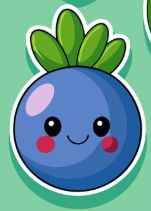
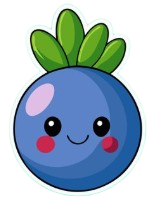
Remove photo background

diff --git a/screens/game_screen.py b/screens/game_screen.py
@@ -2,232 +2,184 @@ from kivy.uix.screenmanager import Screen
 from kivy.lang import Builder
 from kivy.properties import StringProperty, ListProperty
 from kivy.uix.button import Button
+from kivy.uix.floatlayout import FloatLayout
+from kivy.uix.gridlayout import GridLayout
 from kivy.uix.image import Image
+from kivy.graphics import Color, RoundedRectangle, Rectangle
 import random
 from kivy.core.audio import SoundLoader
-from kivy.clock import Clock 
+from kivy.clock import Clock
 
-# โหลดไฟล์หน้าตา UI
-Builder.load_file('ui.kv')
+# --- 1. สร้างคลาสปุ่ม "ไพ่ผลไม้" (TileButton) ---
+# อันนี้แหละที่จะทำให้มีกรอบขาวๆ สวยๆ
+class TileButton(Button):
+    def __init__(self, fruit_source, **kwargs):
+        super().__init__(**kwargs)
+        self.background_normal = ''  # ลบพื้นหลังสีเทาเดิมของปุ่ม
+        self.background_color = (0, 0, 0, 0) # ทำให้ปุ่มใส
+        self.fruit_source = fruit_source
+        
+        # วาดกราฟิกเอง
+        with self.canvas.before:
+            # A. เงา (สีดำจางๆ)
+            Color(0, 0, 0, 0.2)
+            self.shadow = RoundedRectangle(pos=(self.x+3, self.y-3), size=self.size, radius=[15])
+            
+            # B. กรอบการ์ดสีขาว (หรือสีครีม)
+            Color(0.95, 0.95, 0.9, 1) 
+            self.card_bg = RoundedRectangle(pos=self.pos, size=self.size, radius=[15])
+            
+        with self.canvas.after:
+            # C. รูปผลไม้ (วาดทับลงไป)
+            Color(1, 1, 1, 1)
+            pad = 10 # ระยะห่างจากขอบ
+            self.fruit_rect = Rectangle(source=self.fruit_source, 
+                                      pos=(self.x+pad, self.y+pad), 
+                                      size=(self.width-pad*2, self.height-pad*2))
 
+        # สั่งให้มันขยับตามถ้าหน้าจอเปลี่ยนขนาด
+        self.bind(pos=self.update_graphics, size=self.update_graphics)
+
+    def update_graphics(self, *args):
+        # อัปเดตตำแหน่งเงา
+        self.shadow.pos = (self.x+3, self.y-3)
+        self.shadow.size = self.size
+        # อัปเดตตำแหน่งการ์ด
+        self.card_bg.pos = self.pos
+        self.card_bg.size = self.size
+        # อัปเดตตำแหน่งผลไม้
+        pad = 10
+        self.fruit_rect.pos = (self.x+pad, self.y+pad)
+        self.fruit_rect.size = (self.width-pad*2, self.height-pad*2)
+
+
+# --- 2. หน้าจอเกมหลัก ---
 class GameScreen(Screen):
     # Properties สำหรับ bind กับ UI
-    slot_display = StringProperty("ช่องว่าง: 7/7")
-    slot_fruits = ListProperty([])
-    time_display = StringProperty("เวลา: 60")
+    slot_display = StringProperty("Slots: 0/7") # แก้เป็นภาษาอังกฤษก่อนกันสี่เหลี่ยม
+    time_display = StringProperty("Time: 60")
     
     def __init__(self, **kwargs):
         super(GameScreen, self).__init__(**kwargs)
-
         self.fruit_types = ['f1', 'f2', 'f3', 'f4', 'f5', 'f6', 'f7', 'f8', 'f9', 'f10']
-        
-        # กองเก็บไพ่ (สูงสุด 7 ใบ)
         self.MAX_SLOTS = 7
-        self.slots = []  # เก็บไพ่ที่ถูกคลิก
-        
-        # ข้อมูลไพ่ทั้งหมดในเกม
+        self.slots = []
         self.tiles = []
-        
-        # คะแนน
         self.score = 0
         self.game_over_flag = False
         self.time_left = 60
-    
-    def update_time(self, dt):
-        """ฟังก์ชันนับถอยหลัง (เรียกโดย Clock ทุก 1 วินาที)"""
-        # ถ้าเกมจบแล้ว ไม่ต้องนับต่อ
-        if self.game_over_flag:
-            return
-
-        # ลดเวลาลง 1 วินาที
-        self.time_left -= 1
         
-        # อัปเดตตัวเลขบนหน้าจอ (ส่งค่าไปที่ ui.kv)
-        self.time_display = f"เวลา: {self.time_left}"
+        # --- สร้าง UI ในโค้ดเลย (จะได้ไม่ต้องแก้ ui.kv ไปมา) ---
+        self.layout = FloatLayout()
+        
+        # 1. พื้นหลัง (Background)
+        self.bg = Image(source='assets/images/bg.png', allow_stretch=True, keep_ratio=False)
+        self.layout.add_widget(self.bg)
+        
+        # 2. กระดานเกม (Game Board)
+        # ปรับ size_hint เพื่อให้ตารางไม่เต็มจอเกินไป มีที่ว่างสวยๆ
+        self.game_board = GridLayout(cols=7, spacing=10, padding=20,
+                                     size_hint=(0.9, 0.6), 
+                                     pos_hint={'center_x': 0.5, 'center_y': 0.6})
+        self.layout.add_widget(self.game_board)
+        
+        # 3. แถบข้างล่าง (Slot Bar)
+        # วาดพื้นหลังแถบสีเทาเข้ม
+        with self.layout.canvas.after:
+            Color(0.2, 0.2, 0.2, 0.9)
+            RoundedRectangle(pos=(50, 20), size=(700, 100), radius=[20])
 
-        # 🔍 จุดสำคัญ: เช็คว่าเวลาหมดหรือยัง?
-        if self.time_left <= 0:
-            self.time_left = 0
-            self.time_display = "หมดเวลา!"
-            print("⏳ หมดเวลาแล้ว! Game Over!")
-            
-            # 💀 สั่งให้แพ้ทันที! (บรรทัดนี้ต้องมี!)
-            self.game_over(is_win=False)
-    
+        self.add_widget(self.layout)
+
     def on_enter(self):
         """เริ่มเกมใหม่"""
         self.score = 0
         self.game_over_flag = False
-        
-        # ตั้งเวลาเริ่มต้น 60 วินาที
         self.time_left = 60
-        self.time_display = f"เวลา: {self.time_left}"
-        
+        self.time_display = f"Time: {self.time_left}"
         self.generate_tiles()
-        
-        # ⏱ เริ่มจับเวลา (เรียก update_time ทุก 1 วินาที)
-        # อย่าลืม import Clock ด้านบนสุดนะครับ
         self.timer_event = Clock.schedule_interval(self.update_time, 1)
-    
-    def on_leave(self):
-        """หยุดจับเวลาเมื่อออกจากหน้านี้"""
-        if hasattr(self, 'timer_event'):
-            self.timer_event.cancel()
-    
+
     def generate_tiles(self):
-        """สุ่มและสร้างไพ่บนกระดาน"""
-        # ล้างไพ่เก่าออก
-        game_board = self.ids.game_board
-        game_board.clear_widgets()
+        """สุ่มและสร้างไพ่"""
+        self.game_board.clear_widgets()
         self.tiles = []
         self.slots = []
-        self.update_slot_display()
         
-        # สุ่มไพ่ - สร้าง 21 ใบ (7 ชนิด x 3 ใบ)
+        # สุ่มไพ่ 21 ใบ
         tile_list = []
-        for i in range(7):  # เลือก 7 ชนิดจาก 10 ชนิด
+        for i in range(7):
             fruit = self.fruit_types[i]
-            for _ in range(3):  # ชนิดละ 3 ใบ
+            for _ in range(3):
                 tile_list.append(fruit)
-        
-        # สุ่มลำดับไพ่
         random.shuffle(tile_list)
         
-        # สร้าง widget ไพ่
-        for i, fruit in enumerate(tile_list):
-            # สร้างปุ่มที่มีรูปภาพ
-            tile_btn = Button(
+        # สร้างปุ่มแบบใหม่ (TileButton)
+        for fruit in tile_list:
+            # ใช้ TileButton ที่เราสร้างไว้ข้างบน!
+            tile_btn = TileButton(
+                fruit_source=f'assets/images/picgame/{fruit}.png',
                 size_hint=(None, None),
-                size=(80, 80),
-                background_normal=f'assets/images/picgame/{fruit}.png',
-                background_down=f'assets/images/picgame/{fruit}.png'
+                size=(80, 80) # ขนาดการ์ด
             )
-            
-            # คำนวณตำแหน่ง (วางแบบ grid และเลื่อนให้ดูซ้อนกัน)
-            row = i // 7
-            col = i % 7
-            x = 50 + col * 90  # เว้นระยะ 90
-            y = 400 - row * 60  # ซ้อนกันในแนวตั้ง เว้นระยะ 60
-            
-            tile_btn.pos = (x, y)
             
             # ผูกฟังก์ชันคลิก
             tile_btn.bind(on_press=lambda btn, f=fruit: self.on_tile_click_new(btn, f))
+            self.game_board.add_widget(tile_btn)
             
-            # เพิ่มเข้า board
-            game_board.add_widget(tile_btn)
-            
-            # เก็บข้อมูล
-            self.tiles.append({
-                'fruit': fruit,
-                'widget': tile_btn,
-                'visible': True
-            })
+            self.tiles.append({'fruit': fruit, 'widget': tile_btn})
         
-        print(f"🎮 สร้างไพ่ {len(tile_list)} ใบเสร็จแล้ว!")
-    
-    def update_slot_display(self):
-        """อัพเดทข้อความแสดงจำนวนช่อง"""
-        remaining = self.MAX_SLOTS - len(self.slots)
-        self.slot_display = f"ช่องว่าง: {remaining}/{self.MAX_SLOTS}"
-        self.slot_fruits = self.slots.copy()
-    
-    def add_to_slots(self, fruit_name):
-        """เพิ่มไพ่เข้ากองเก็บ"""
-        # เช็คว่ากองเต็มหรือยัง
-        if len(self.slots) >= self.MAX_SLOTS:
-            print("กองเต็มแล้ว! แพ้!")
+        print(f"🎮 สร้างไพ่ {len(tile_list)} ใบแบบการ์ดสวยๆ เสร็จแล้ว!")
+
+    def update_time(self, dt):
+        if self.game_over_flag: return
+        self.time_left -= 1
+        self.time_display = f"Time: {self.time_left}"
+        if self.time_left <= 0:
             self.game_over(is_win=False)
-            return False
-        
-        # เพิ่มไพ่เข้ากอง
-        self.slots.append(fruit_name)
-        print(f"เพิ่ม {fruit_name} เข้ากอง | กองตอนนี้: {self.slots}")
-        
-        # อัพเดท UI
-        self.update_slot_display()
-        return True
-    
+
     def on_tile_click_new(self, btn_instance, fruit_type):
-        """ฟังก์ชันทำงานเมื่อคลิกไพ่ (ใช้กับระบบใหม่)"""
-        if self.game_over_flag:
-            return
+        if self.game_over_flag: return
         
         self.play_sound('click.wav')
-            
-        print(f"คลิกไพ่: {fruit_type}")
         
-        # เพิ่มไพ่เข้ากอง
-        if not self.add_to_slots(fruit_type):
-            # ถ้ากองเต็ม = แพ้
-            return
-        
-        # ซ่อนไพ่ที่ถูกคลิก
+        if len(self.slots) >= self.MAX_SLOTS: return
+
+        # เพิ่มเข้า slot และซ่อนไพ่บนกระดาน
+        self.slots.append(fruit_type)
         btn_instance.disabled = True
         btn_instance.opacity = 0
         
-        # เช็คว่ามีเซ็ต 3 ใบหรือยัง
         self.check_match()
-        
-        # เช็คว่าชนะหรือยัง
         self.check_win()
-        
+
     def check_match(self):
-        """ฟังก์ชันเช็คว่าผลไม้เหมือนกัน 3 ใบหรือยัง"""
         from collections import Counter
-        
-        # นับจำนวนผลไม้แต่ละชนิดในกอง
         fruit_count = Counter(self.slots)
-        
-        # เช็คว่ามีผลไม้ไหนครบ 3 ใบหรือไม่
         for fruit, count in fruit_count.items():
             if count >= 3:
-                # เจอเซ็ต 3 ใบ! ลบออก 3 ใบ
-                print(f"🎉 เจอเซ็ต! {fruit} x3 - ลบออกจากกอง")
-                for _ in range(3):
-                    self.slots.remove(fruit)
-                print(f"กองหลังลบ: {self.slots}")
-                
-                # เพิ่มคะแนน
-                self.score += 100
                 self.play_sound('match.wav')
-                
-                # อัพเดท UI
-                self.update_slot_display()
+                for _ in range(3): self.slots.remove(fruit)
+                self.score += 100
                 return True
-        
         return False
-    
+
     def check_win(self):
-        """เช็คว่าไพ่หมดจากกระดานหรือยัง (ชนะ)"""
-        # นับไพ่ที่ยังเหลืออยู่ (ไม่ถูกซ่อน)
         visible_tiles = [t for t in self.tiles if t['widget'].opacity > 0]
-        
         if len(visible_tiles) == 0:
-            print("🏆 ชนะ! ไพ่หมดจากกระดาน")
             self.game_over(is_win=True)
-    
+
     def game_over(self, is_win):
-        """ฟังก์ชันจบเกม - ไปหน้า result"""
         self.game_over_flag = True
-        print(f"เกมจบ! {'ชนะ' if is_win else 'แพ้'} | คะแนน: {self.score}")
-        
-        # ส่งข้อมูลไปหน้า result
         result_screen = self.manager.get_screen('result')
         result_screen.update_result(is_win=is_win, score=self.score)
-        
-        # เปลี่ยนไปหน้า result
         self.manager.current = 'result'
-    
-    def back_to_menu(self):
-        # ฟังก์ชันปุ่มกลับหน้าเมนู
-        print("กลับเมนูหลัก")
-        
+
+    def on_leave(self):
+        if hasattr(self, 'timer_event'): self.timer_event.cancel()
+
     def play_sound(self, sound_file):
         sound = SoundLoader.load(f'assets/sounds/{sound_file}')
-        if sound:
+        if sound: 
             sound.volume = 1.0
             sound.play()
-            
-    
-            
